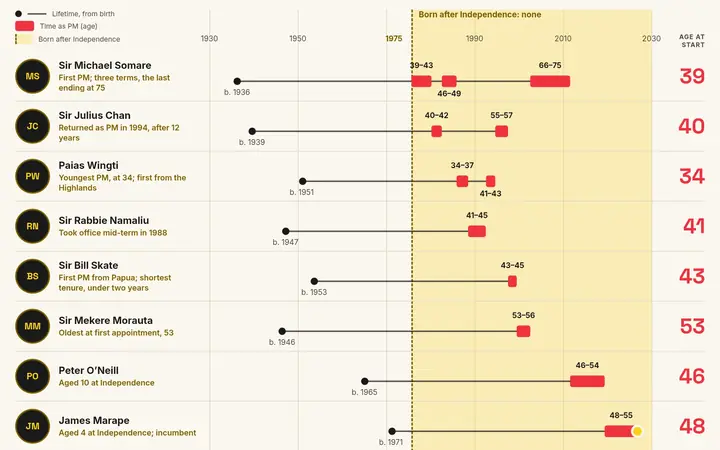
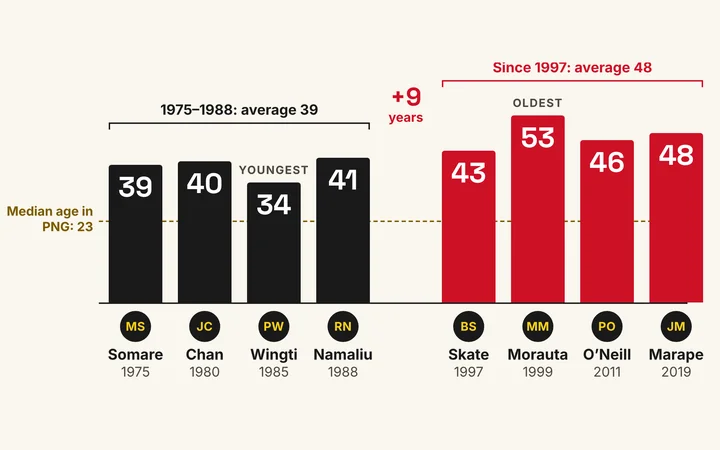
Publish the three PNG PM charts with sources
Replace the old timeline graphic on /dataviz/pngpm-ages/ with the final
three-chart set (age at first appointment, age vs median age, terms in
office), add a short intro and a linked sources list, and update the
dataviz listing, home card, thumbnail and sitemap.

Claude-Session: https://claude.ai/code/session_01F1GoriwsL5Vz9CnASaFdrE

diff --git a/dataviz/pngpm-ages/index.html b/dataviz/pngpm-ages/index.html
@@ -6,7 +6,7 @@
   <title>All of PNG’s Prime Ministers Were Born Before Independence — Neo Malesa</title>
   <meta
     name="description"
-    content="None of the eight people who have served as Papua New Guinea’s Prime Minister were born after Independence in 1975. They averaged 43 on first appointment, against a national median age of 24."
+    content="None of the eight people who have served as Papua New Guinea’s Prime Minister were born after Independence in 1975. Three charts: age at first appointment, that age against a national median of 23, and the 12 terms in office since 1975."
   />
   <meta name="author" content="Neo Malesa" />
   <meta name="theme-color" content="#0d0f12" />
@@ -16,7 +16,7 @@
   <meta property="og:type" content="article" />
   <meta property="og:site_name" content="Neo Malesa" />
   <meta property="og:title" content="All of PNG’s Prime Ministers were born before Independence" />
-  <meta property="og:description" content="None of the eight people who have served as Prime Minister were born after 1975. They averaged 43 when first appointed; the population’s median age is 24." />
+  <meta property="og:description" content="None of the eight people who have served as Prime Minister were born after 1975. Three charts: age at first appointment, age against the national median, and the 12 terms in office since 1975." />
   <meta property="og:url" content="https://neomalesa.com/dataviz/pngpm-ages/" />
   <meta property="og:image" content="https://neomalesa.com/dataviz/pngpm-ages/pngpm-ages-2026.png" />
   <meta name="twitter:card" content="summary_large_image" />
@@ -31,27 +31,99 @@
 </head>
 <body>
   <main class="viz-only" id="top">
-    <h1 class="visually-hidden">All of PNG’s Prime Ministers Were Born Before Independence</h1>
-    <a href="pngpm-ages-2026.png" class="viz-only__link" aria-label="Open the full-resolution graphic">
-      <picture>
-        <source type="image/webp" srcset="pngpm-ages-2026-1080.webp 1080w, pngpm-ages-2026.webp 2160w" sizes="(min-width: 64rem) 64rem, 100vw" />
-        <img
-          src="pngpm-ages-2026.png"
-          width="2160" height="2700"
-          loading="eager" decoding="async"
-          alt="Infographic: all of PNG’s Prime Ministers were born before Independence. A timeline from 1930 to 2030 shows each of the eight Prime Ministers’ lifetimes from birth, with their terms in office marked and their age at each term. None was born after Independence in 1975. Age at first appointment: Sir Michael Somare 39, Sir Julius Chan 40, Paias Wingti 34, Sir Rabbie Namaliu 41, Sir Bill Skate 43, Sir Mekere Morauta 53, Peter O’Neill 46, James Marape 48 (incumbent). The average is 43, against a national median age of 24, a difference of 19 years. It has been 41 years since anyone younger than 41 became Prime Minister; Wingti was 34 in 1985. Those appointed since 1997 averaged 48 on taking office; the first four averaged 39. Six of eight first became Prime Minister mid-term."
-        />
-      </picture>
-    </a>
-    <div class="viz-only__actions">
-      <a href="pngpm-ages-2026.png" class="viz-btn" download="pngpm-ages-2026.png">
-        <span aria-hidden="true">↓</span> Download PNG
+    <header class="viz-intro">
+      <p class="viz-intro__kicker">Papua New Guinea &middot; Three Charts &middot; 2026</p>
+      <h1 class="viz-intro__title">All of PNG’s Prime Ministers Were Born Before Independence</h1>
+      <p class="viz-intro__lead">
+        Eight people have served as Prime Minister since Independence on 16 September 1975. None was born after that date. The three charts below set out their age at first appointment, that age against the median age of the population, and the 12 terms in office from 1975 to 2026.
+      </p>
+    </header>
+
+    <figure class="viz-figure" id="ages">
+      <a href="pngpm-ages-2026.png" class="viz-only__link" aria-label="Open chart 1 of 3 at full resolution">
+        <picture>
+          <source type="image/webp" srcset="pngpm-ages-2026-1080.webp 1080w, pngpm-ages-2026.webp 2160w" sizes="(min-width: 64rem) 64rem, 100vw" />
+          <img
+            src="pngpm-ages-2026.png"
+            width="2160" height="2700"
+            loading="eager" decoding="async"
+            alt="Bar chart: how old PNG’s Prime Ministers were when they first became Prime Minister. Youngest 34, oldest 53, none born after Independence. The first four averaged 39: Sir Michael Somare 39 (1975), Sir Julius Chan 40 (1980), Paias Wingti 34 (1985), Sir Rabbie Namaliu 41 (1988). Those appointed since 1997 averaged 48, about nine years older: Sir Bill Skate 43 (1997), Sir Mekere Morauta 53 (1999), Peter O’Neill 46 (2011), James Marape 48 (2019). A dashed line marks the national median age of 23. A strip below shows that all eight were born before Independence on 16 September 1975, under Australian colonial administration (the Territory of Papua and New Guinea from 1949). Their ages at Independence: Somare 39, Chan 36, Morauta 29, Namaliu 28, Wingti 24, Skate 21, O’Neill 10, Marape 4. Most Papua New Guineans alive today were born after Independence. For discussion: PNG has not yet had a Prime Minister born after Independence. What would it take for that to change?"
+          />
+        </picture>
       </a>
+      <figcaption class="viz-figure__caption">
+        <span class="viz-figure__index">1 of 3</span>
+        <span class="viz-figure__name">Age at first appointment</span>
+        <a href="pngpm-ages-2026.png" class="viz-figure__download" download="pngpm-ages-2026.png"><span aria-hidden="true">↓</span> Download PNG</a>
+      </figcaption>
+    </figure>
+
+    <figure class="viz-figure" id="median-age">
+      <a href="pngpm-median-age-2026.png" class="viz-only__link" aria-label="Open chart 2 of 3 at full resolution">
+        <picture>
+          <source type="image/webp" srcset="pngpm-median-age-2026-1080.webp 1080w, pngpm-median-age-2026.webp 2160w" sizes="(min-width: 64rem) 64rem, 100vw" />
+          <img
+            src="pngpm-median-age-2026.png"
+            width="2160" height="2700"
+            loading="lazy" decoding="async"
+            alt="Chart: the age of each PNG Prime Minister at each appointment, plotted against the median age of all Papua New Guineans, 1975 to 2026. New Prime Ministers have grown older faster than the population. The median age rose from 16 in 1975 to 23 today. First appointments: Somare 39, Chan 40, Wingti 34, Namaliu 41, Skate 43, Morauta 53, O’Neill 46, Marape 48. Returns for later terms: Somare 46 and 66, Wingti 41, Chan 55. Between the first four appointments and the four since 1997, the median age rose about three years, while the age of new Prime Ministers rose about nine. The average gap between a new Prime Minister’s age and the median widened from 22 to 28 years. Somare was 66 on his 2002 return; the oldest first-time Prime Minister was Morauta, at 53."
+          />
+        </picture>
+      </a>
+      <figcaption class="viz-figure__caption">
+        <span class="viz-figure__index">2 of 3</span>
+        <span class="viz-figure__name">Age against the median age of the population</span>
+        <a href="pngpm-median-age-2026.png" class="viz-figure__download" download="pngpm-median-age-2026.png"><span aria-hidden="true">↓</span> Download PNG</a>
+      </figcaption>
+    </figure>
+
+    <figure class="viz-figure" id="terms">
+      <a href="pngpm-terms-2026.png" class="viz-only__link" aria-label="Open chart 3 of 3 at full resolution">
+        <picture>
+          <source type="image/webp" srcset="pngpm-terms-2026-1080.webp 1080w, pngpm-terms-2026.webp 2160w" sizes="(min-width: 64rem) 64rem, 100vw" />
+          <img
+            src="pngpm-terms-2026.png"
+            width="2160" height="2700"
+            loading="lazy" decoding="async"
+            alt="Timeline: who has held the office of Prime Minister from 1975 to 2026, and how each term began. Seven of 12 terms began between elections, after a no-confidence vote, resignation or vacancy. Somare: 1975–80, at Independence; 1982–85 and 2002–11, after general elections; 16.5 years in total, the longest of any Prime Minister. Chan: 1980–82 and 1994–97, both between elections; 5.3 years. Wingti: 1985–88, between elections, and 1992–94, after a general election; 4.7 years. Namaliu: 1988–92, between elections; 4.0 years. Skate: 1997–99, after a general election; 2.0 years. Morauta: 1999–2002, between elections; 3.1 years. O’Neill: 2011–19, between elections; 7.8 years. Marape: 2019 to now, between elections; 7.5 years to November 2026."
+          />
+        </picture>
+      </a>
+      <figcaption class="viz-figure__caption">
+        <span class="viz-figure__index">3 of 3</span>
+        <span class="viz-figure__name">Who held office, 1975–2026</span>
+        <a href="pngpm-terms-2026.png" class="viz-figure__download" download="pngpm-terms-2026.png"><span aria-hidden="true">↓</span> Download PNG</a>
+      </figcaption>
+    </figure>
+
+    <div class="viz-only__actions">
       <button type="button" class="viz-btn" id="share-btn">
         <span aria-hidden="true">↗</span> <span class="viz-btn__label">Share</span>
       </button>
       <p class="viz-only__status" id="share-status" role="status" aria-live="polite"></p>
     </div>
+
+    <section class="viz-sources" aria-labelledby="sources-heading">
+      <h2 class="viz-sources__heading" id="sources-heading">Sources</h2>
+      <ol class="viz-sources__list">
+        <li>
+          <a class="subpage__inline-link" href="https://press.anu.edu.au/publications/series/pacific/struggle-reform-boom-bust" target="_blank" rel="noopener noreferrer">Struggle, Reform, Boom and Bust: An Economic History of Papua New Guinea since Independence</a>, ANU Press, Annex A. Prime Ministers and terms in office, 1975 onwards.
+        </li>
+        <li>
+          <a class="subpage__inline-link" href="https://population.un.org/wpp/" target="_blank" rel="noopener noreferrer">World Population Prospects 2024</a>, United Nations. Median age of the population: 16 in 1975, 23 in 2026 (projected).
+        </li>
+        <li>
+          <a class="subpage__inline-link" href="https://en.wikipedia.org/wiki/Prime_Minister_of_Papua_New_Guinea" target="_blank" rel="noopener noreferrer">Prime Minister of Papua New Guinea</a>, Wikipedia, with the linked biography of each Prime Minister. Dates of birth.
+        </li>
+        <li>
+          PNG Government Gazette. Appointment of Sir Mekere Morauta, 1999.
+        </li>
+      </ol>
+      <p class="viz-sources__note">
+        Ages are calculated from exact dates of birth and appointment; averages are rounded. Acting Prime Ministers (John Giheno, 1997; Sam Abal, 2010–11) are excluded. The median age covers the whole population, including children. Data as of November 2026.
+      </p>
+    </section>
+
     <section class="signup" aria-labelledby="signup-heading">
       <h2 class="signup__heading" id="signup-heading">Updates by Email</h2>
       <p class="signup__lead">New charts, tools, and writing, sent by email.</p>
@@ -93,7 +165,7 @@
       var url = 'https://neomalesa.com/dataviz/pngpm-ages/';
       var data = {
         title: 'All of PNG’s Prime Ministers were born before Independence',
-        text: 'None of PNG’s eight Prime Ministers were born after Independence. They averaged 43 on first appointment; the median age of the population is 24.',
+        text: 'None of PNG’s eight Prime Ministers were born after Independence. They averaged 43 on first appointment; the median age of the population is 23.',
         url: url
       };
       function say(msg) {

diff --git a/css/style.css b/css/style.css
@@ -1986,6 +1986,121 @@ body::after {
   color: var(--color-ink-muted);
 }
 
+/* Multi-chart pages: intro, captioned figures, sources */
+
+.viz-intro {
+  max-width: 40rem;
+  margin: clamp(1rem, 3vw, 2rem) auto clamp(2rem, 5vw, 3rem);
+  text-align: center;
+}
+
+.viz-intro__kicker {
+  margin: 0 0 0.75rem;
+  font-size: var(--text-kicker);
+  text-transform: uppercase;
+  letter-spacing: 0.18em;
+  color: var(--color-accent);
+}
+
+.viz-intro__title {
+  margin: 0 0 1rem;
+  font-family: var(--font-display);
+  font-weight: 600;
+  font-size: clamp(1.75rem, 4vw, 2.6rem);
+  line-height: 1.15;
+  color: var(--color-ink);
+}
+
+.viz-intro__lead {
+  margin: 0;
+  color: var(--color-ink-muted);
+  font-size: 1rem;
+  line-height: 1.7;
+}
+
+.viz-figure {
+  margin: 0 auto clamp(2.5rem, 6vw, 4rem);
+  max-width: 64rem;
+  scroll-margin-top: 1rem;
+}
+
+.viz-figure__caption {
+  display: flex;
+  flex-wrap: wrap;
+  align-items: baseline;
+  gap: 0.35rem 1rem;
+  margin-top: 0.85rem;
+  padding-bottom: 0.85rem;
+  border-bottom: 1px solid var(--color-border);
+  font-size: 0.9rem;
+  color: var(--color-ink-muted);
+}
+
+.viz-figure__index {
+  font-size: 0.75rem;
+  text-transform: uppercase;
+  letter-spacing: 0.12em;
+  color: var(--color-accent);
+}
+
+.viz-figure__name {
+  flex: 1 1 12rem;
+  color: var(--color-ink);
+}
+
+.viz-figure__download {
+  font-size: 0.75rem;
+  text-transform: uppercase;
+  letter-spacing: 0.12em;
+  color: var(--color-accent);
+  text-decoration: none;
+  min-height: 2.75rem;
+  display: inline-flex;
+  align-items: center;
+  gap: 0.4em;
+}
+
+.viz-figure__download:hover,
+.viz-figure__download:focus-visible {
+  text-decoration: underline;
+  text-underline-offset: 0.2em;
+}
+
+.viz-sources {
+  max-width: 40rem;
+  margin: clamp(2.5rem, 6vw, 4rem) auto 0;
+  padding-top: clamp(1.75rem, 4vw, 2.5rem);
+  border-top: 1px solid var(--color-border);
+}
+
+.viz-sources__heading {
+  margin: 0 0 1rem;
+  font-family: var(--font-display);
+  font-weight: 600;
+  font-size: clamp(1.4rem, 2.4vw, 1.75rem);
+  color: var(--color-ink);
+  text-align: center;
+}
+
+.viz-sources__list {
+  margin: 0;
+  padding-left: 1.25rem;
+  color: var(--color-ink-muted);
+  font-size: 0.95rem;
+  line-height: 1.6;
+}
+
+.viz-sources__list li + li {
+  margin-top: 0.6rem;
+}
+
+.viz-sources__note {
+  margin: 1.25rem 0 0;
+  color: var(--color-ink-muted);
+  font-size: 0.85rem;
+  line-height: 1.6;
+}
+
 
 /* ============================================================
    SKIP LINK

diff --git a/dataviz/index.html b/dataviz/index.html
@@ -63,7 +63,7 @@
       <div class="subpage__inner">
         <p class="subpage__kicker">Port Moresby &middot; Papua New Guinea</p>
         <h1 class="subpage__title subpage__title--long">Data Visualisations</h1>
-        <p class="subpage__meta">Updated 11 November 2026</p>
+        <p class="subpage__meta">Updated 12 November 2026</p>
       </div>
     </header>
     <section class="subpage__section" aria-labelledby="dataviz-heading">
@@ -90,10 +90,10 @@
           </li>
           <li class="dataviz__item">
             <a href="pngpm-ages/" class="dataviz__link" aria-label="Open All of PNG’s Prime Ministers Were Born Before Independence">
-              <span class="dataviz__meta">Static Graphic &middot; 2026</span>
+              <span class="dataviz__meta">Three Charts &middot; 2026</span>
               <span class="dataviz__title">All of PNG’s Prime Ministers Were Born Before Independence</span>
               <span class="dataviz__desc">
-                Eight Prime Ministers, none born after 1975. They averaged 43 on first appointment, against a national median age of 24.
+                Eight Prime Ministers, none born after 1975. Age at first appointment, that age against a national median of 23, and the 12 terms in office since Independence.
               </span>
               <span class="dataviz__arrow" aria-hidden="true">→</span>
             </a>

diff --git a/index.html b/index.html
@@ -399,10 +399,10 @@
                   <img src="assets/images/work/pngpm-ages-thumb.webp" width="720" height="450" alt="" loading="lazy" decoding="async" />
                 </span>
                 <span class="card__body">
-                  <span class="card__meta">Static graphic &middot; 2026</span>
+                  <span class="card__meta">Three charts &middot; 2026</span>
                   <span class="card__title">All of PNG’s Prime Ministers Were Born Before Independence</span>
                   <span class="card__desc">Eight Prime Ministers, none born after 1975. No one under 41 has taken the job since 1985.</span>
-                  <span class="card__go">View the graphic <span aria-hidden="true">→</span></span>
+                  <span class="card__go">View the charts <span aria-hidden="true">→</span></span>
                 </span>
               </a>
             </li>
